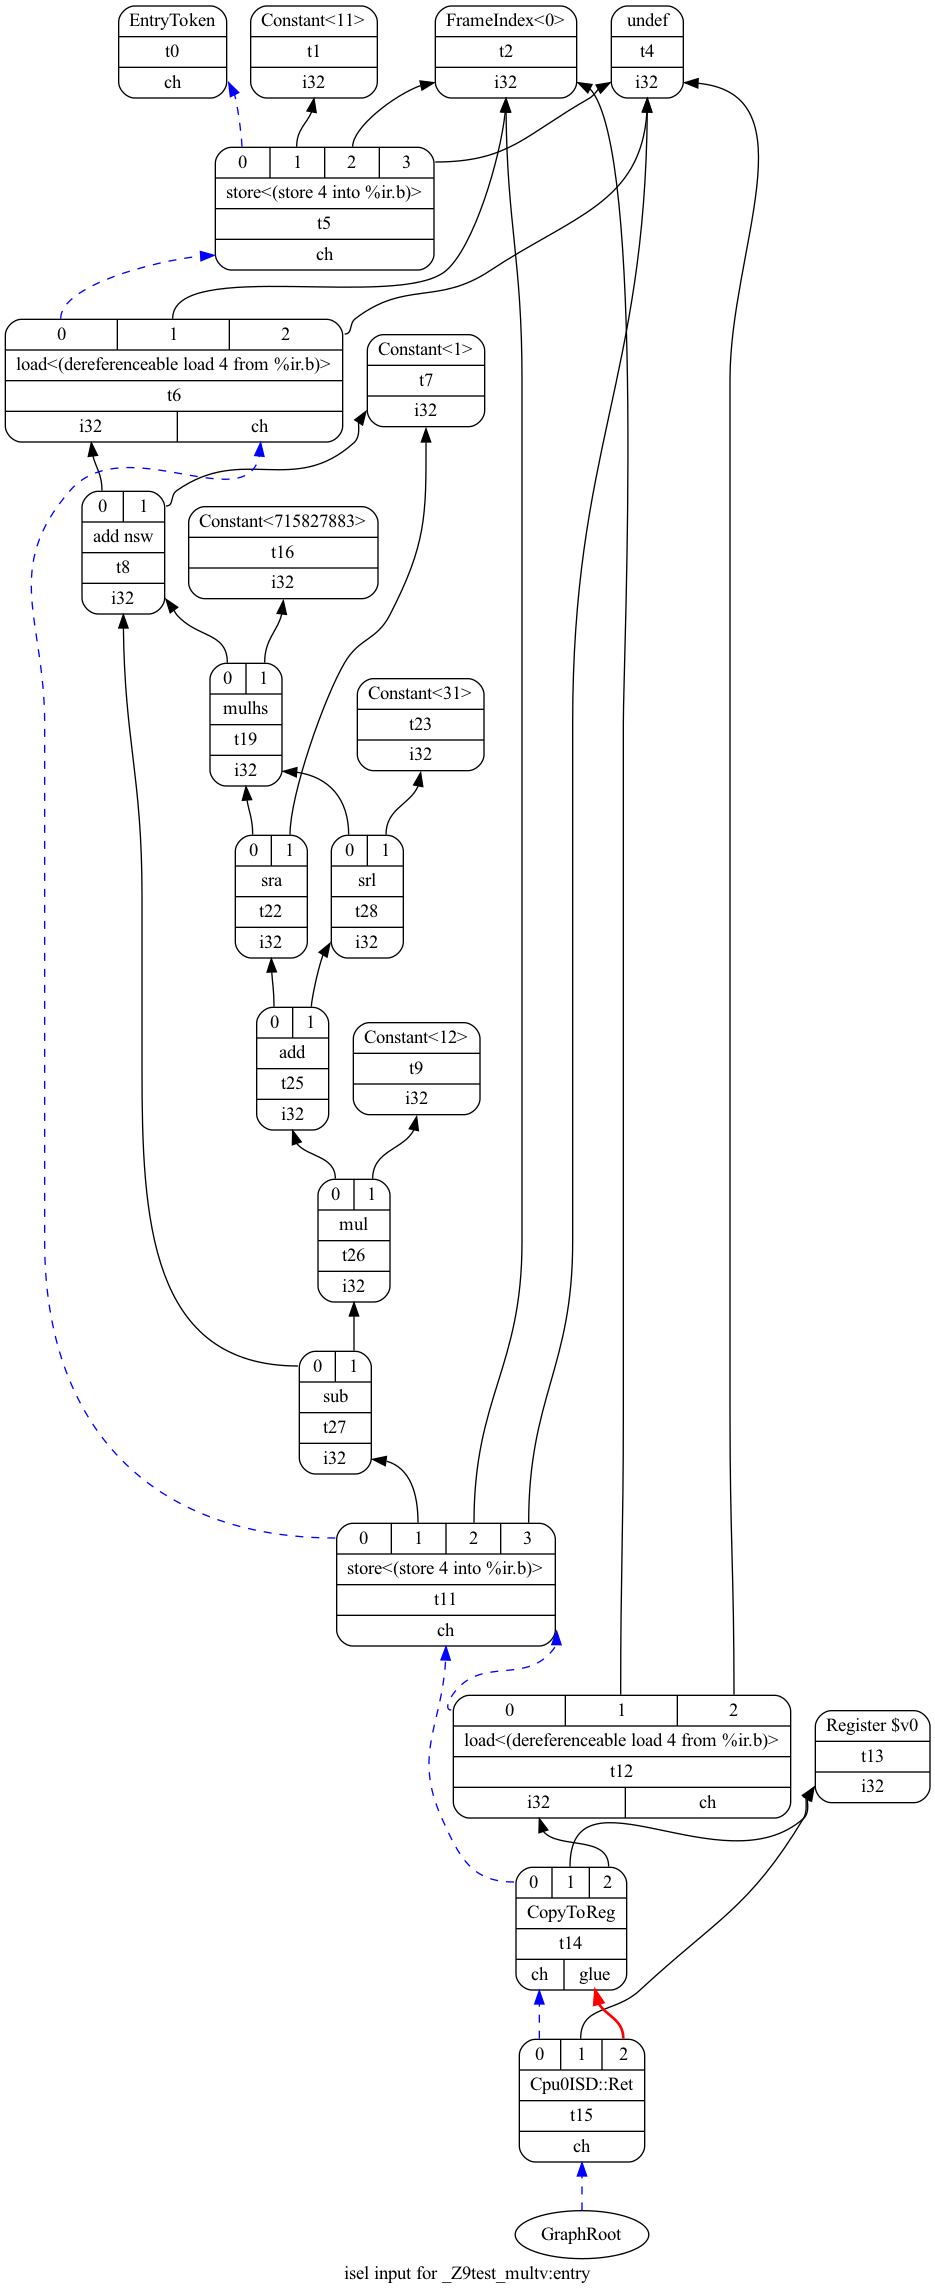
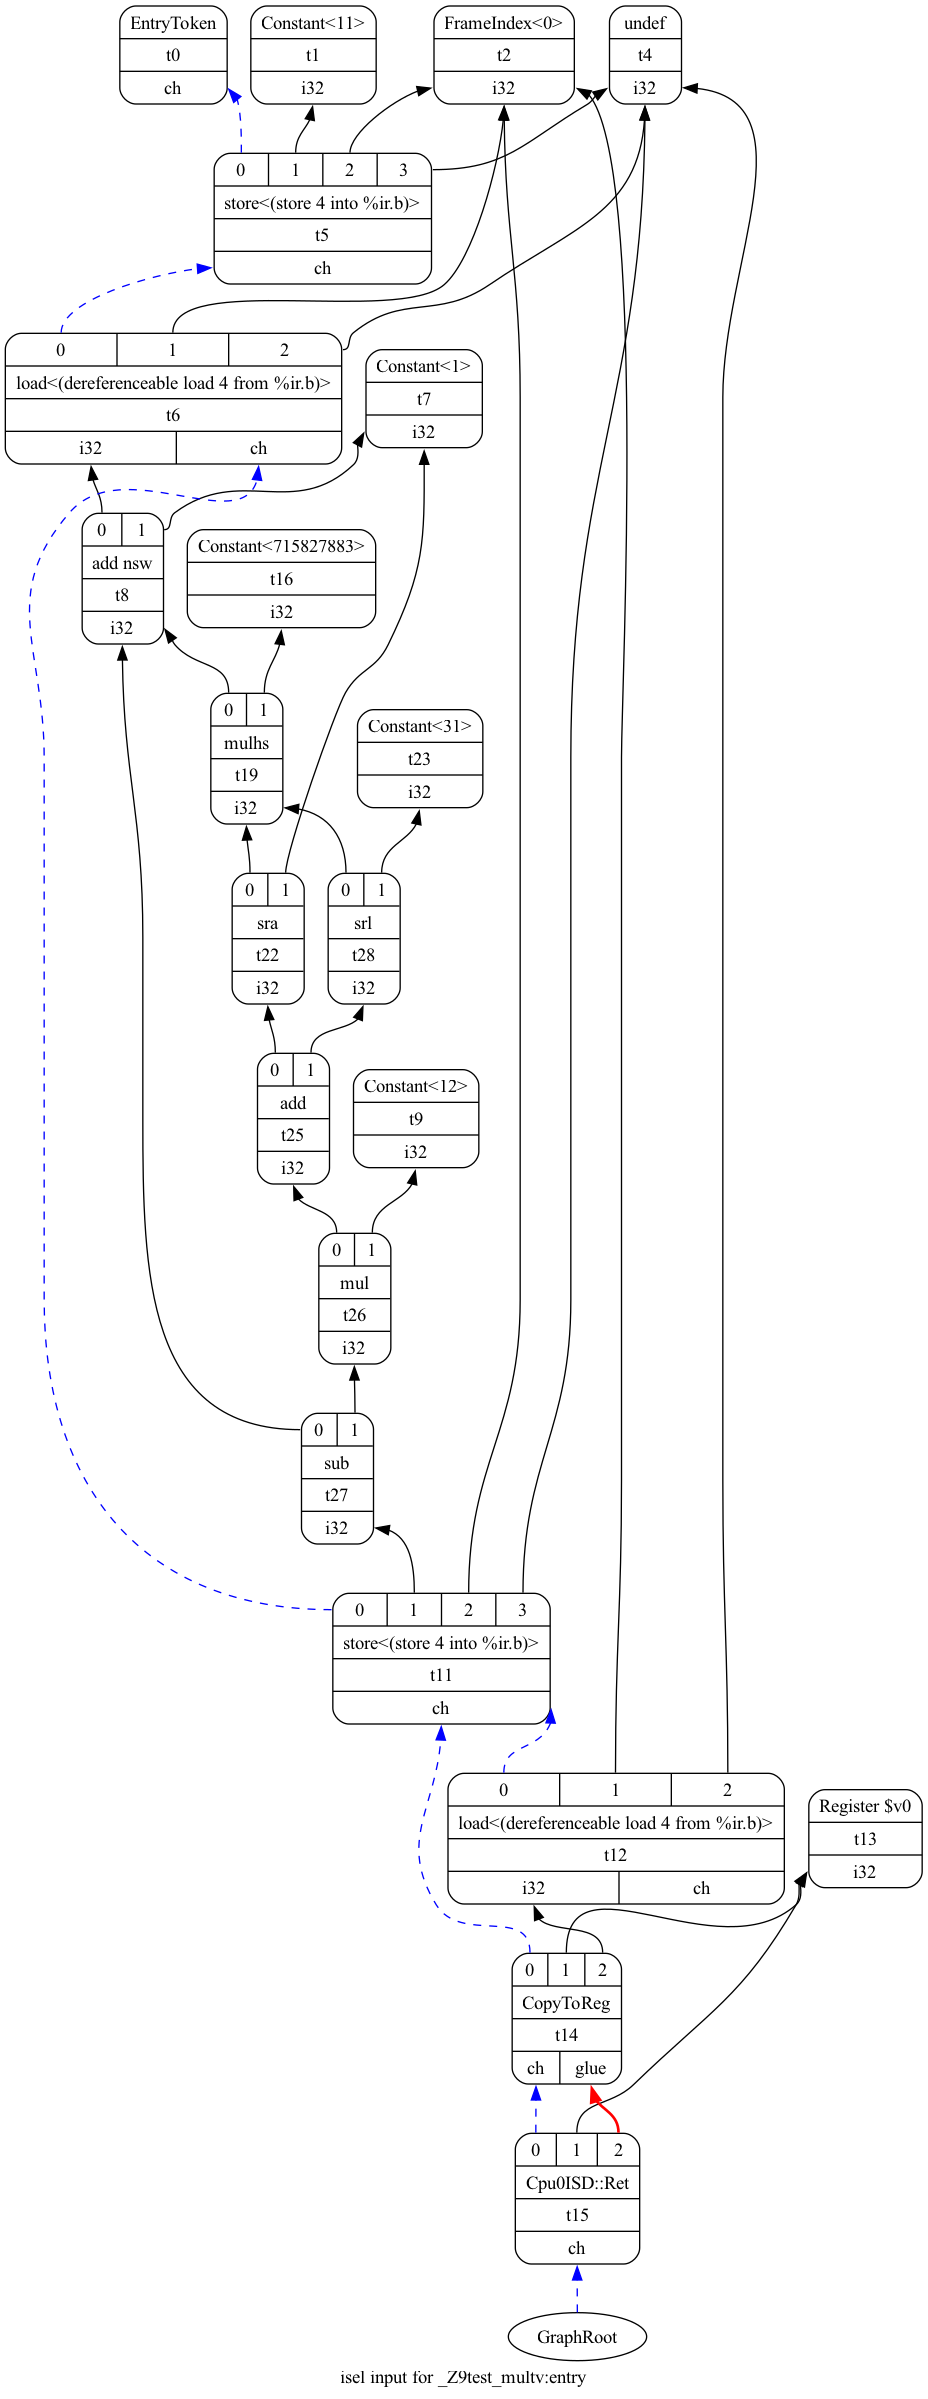
Refine DAG

diff --git a/source/otherinst.rst b/source/otherinst.rst
@@ -585,9 +585,10 @@ as illustrated in the following **Optimized lowered selection DAG** and
     t15: ch = Cpu0ISD::Ret t14, Register:i32 $v0, t14:1
 
 .. _otherinst-f2:
-.. graphviz:: ../Fig/otherinst/ch4_1_mult_view-isel-dags.gv
-   :caption: ch4_1_mult.bc DAG
+.. figure:: ../Fig/otherinst/ch4_1_mult_view-isel-dags.png
+   :scale: 50%
 
+   ch4_1_mult.bc DAG
 
 LLVM optimizes the **srem** operation by replacing division with multiplication  
 in DAG optimization. This is because the **DIV** operation is more expensive  
